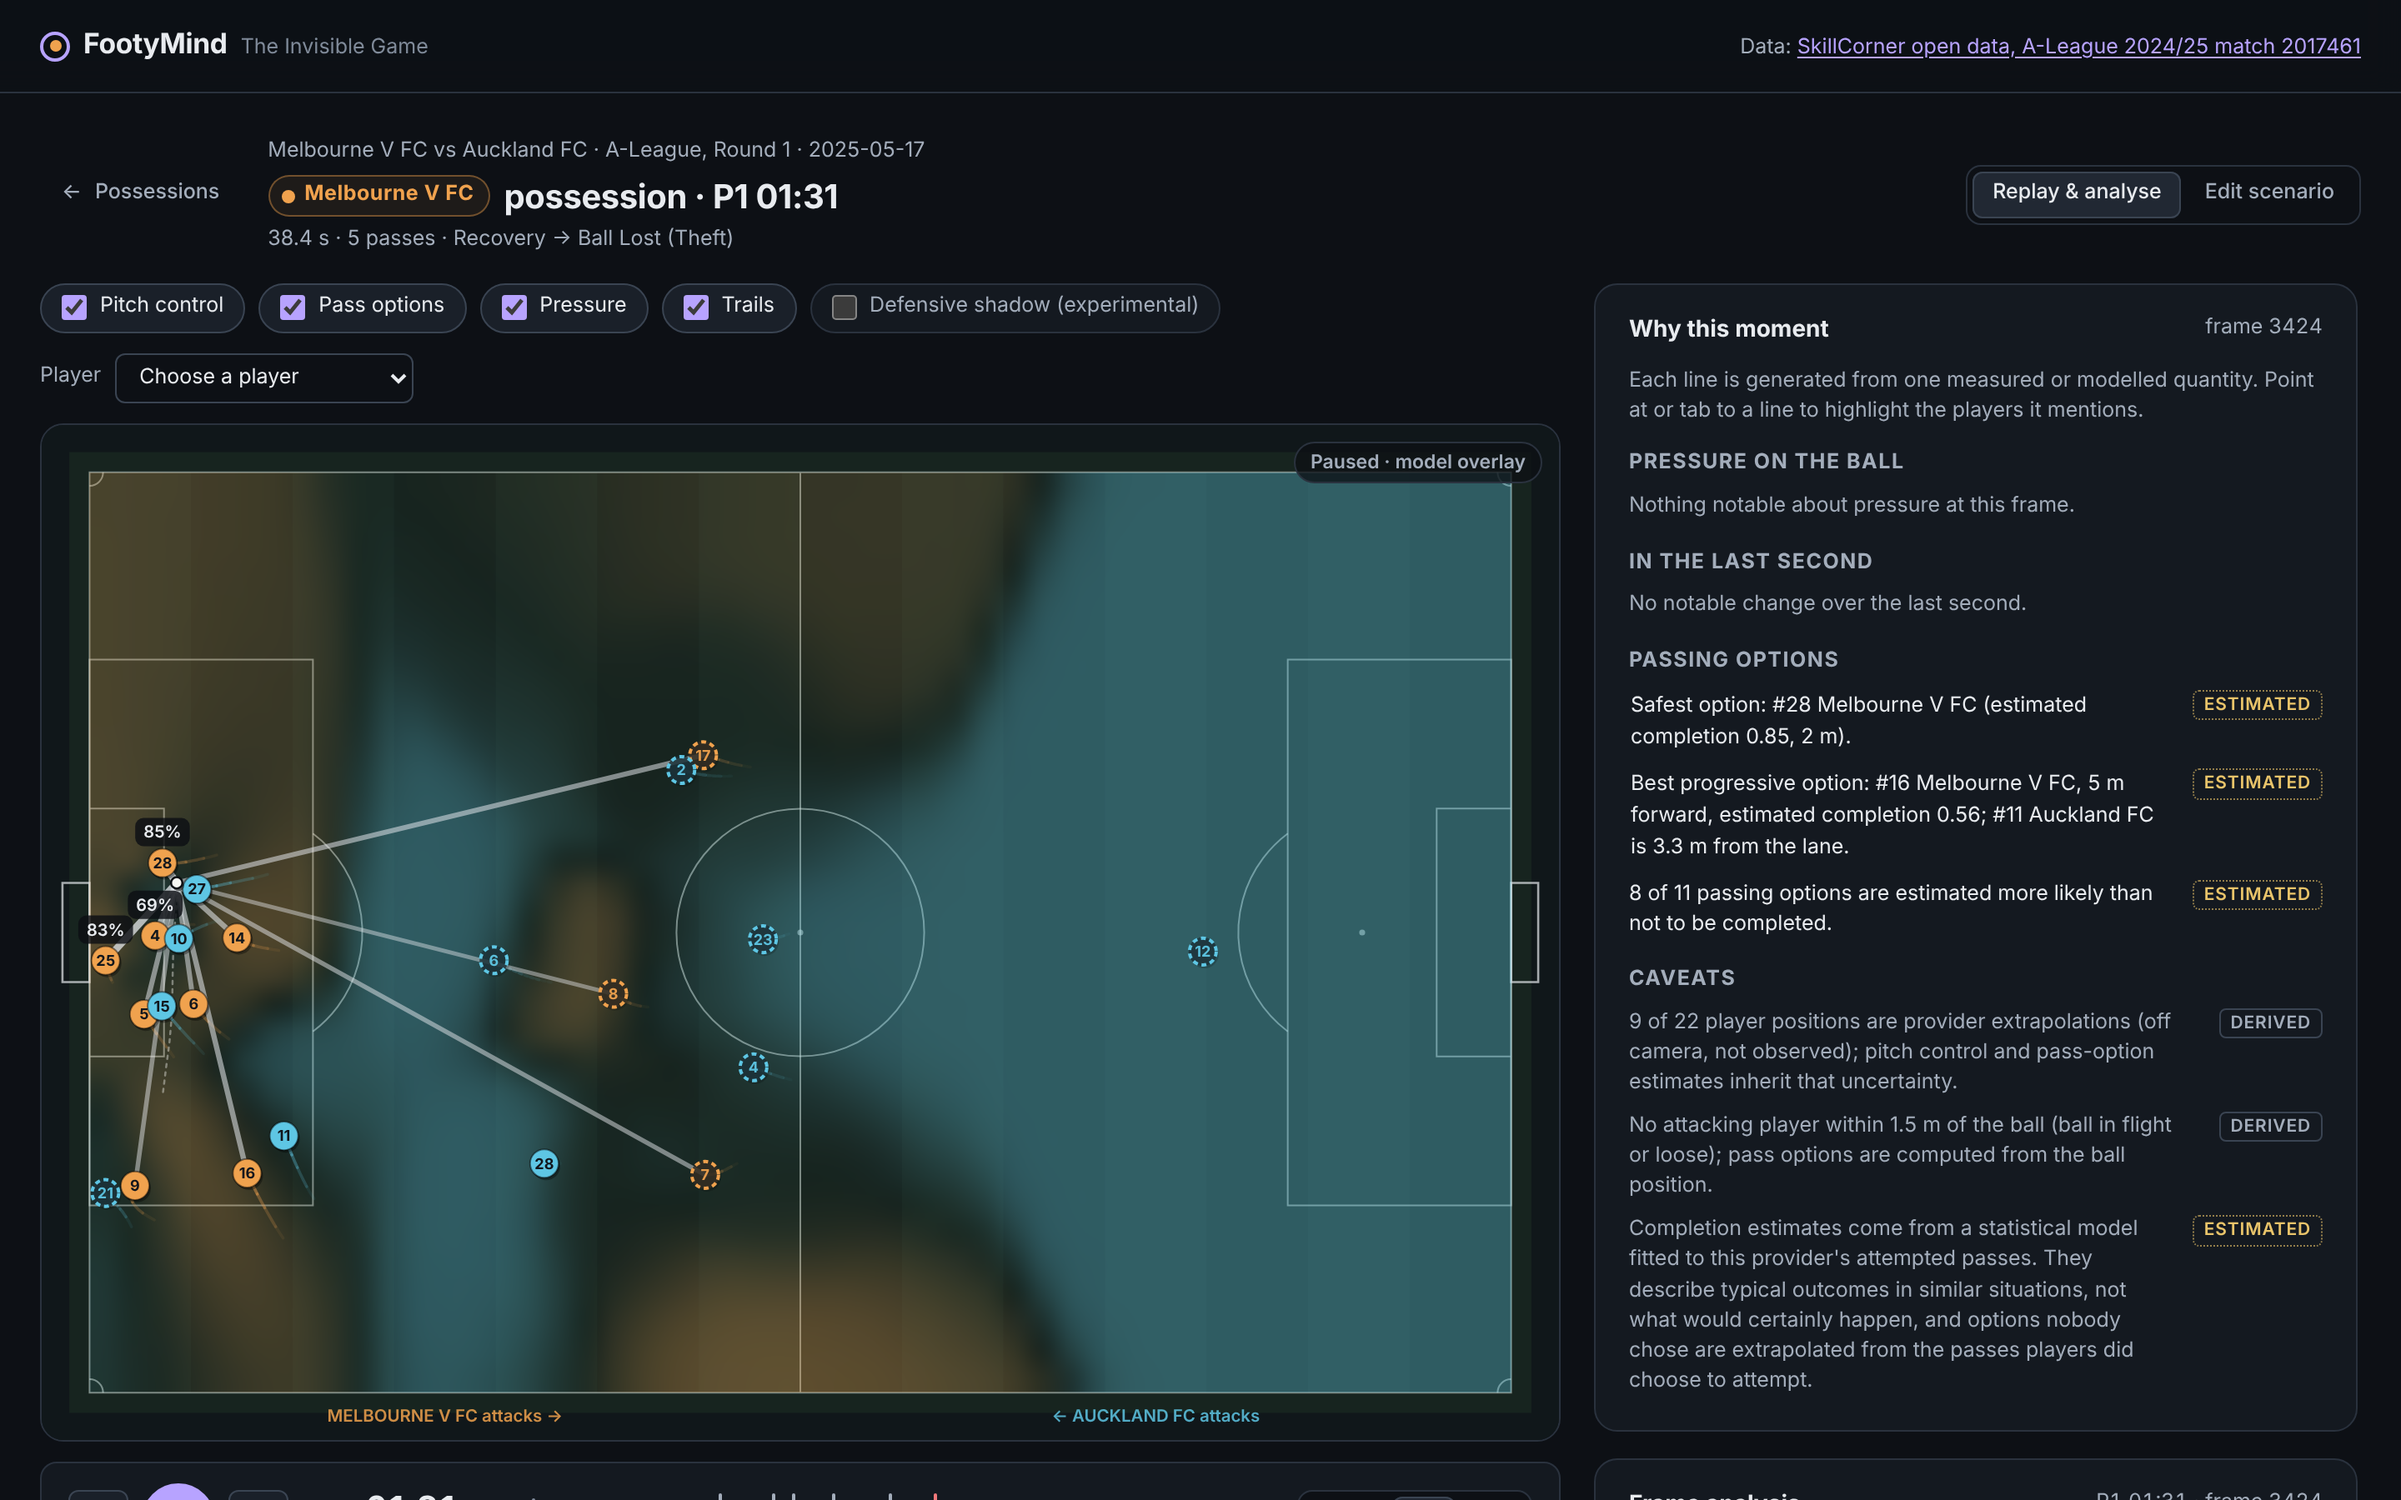
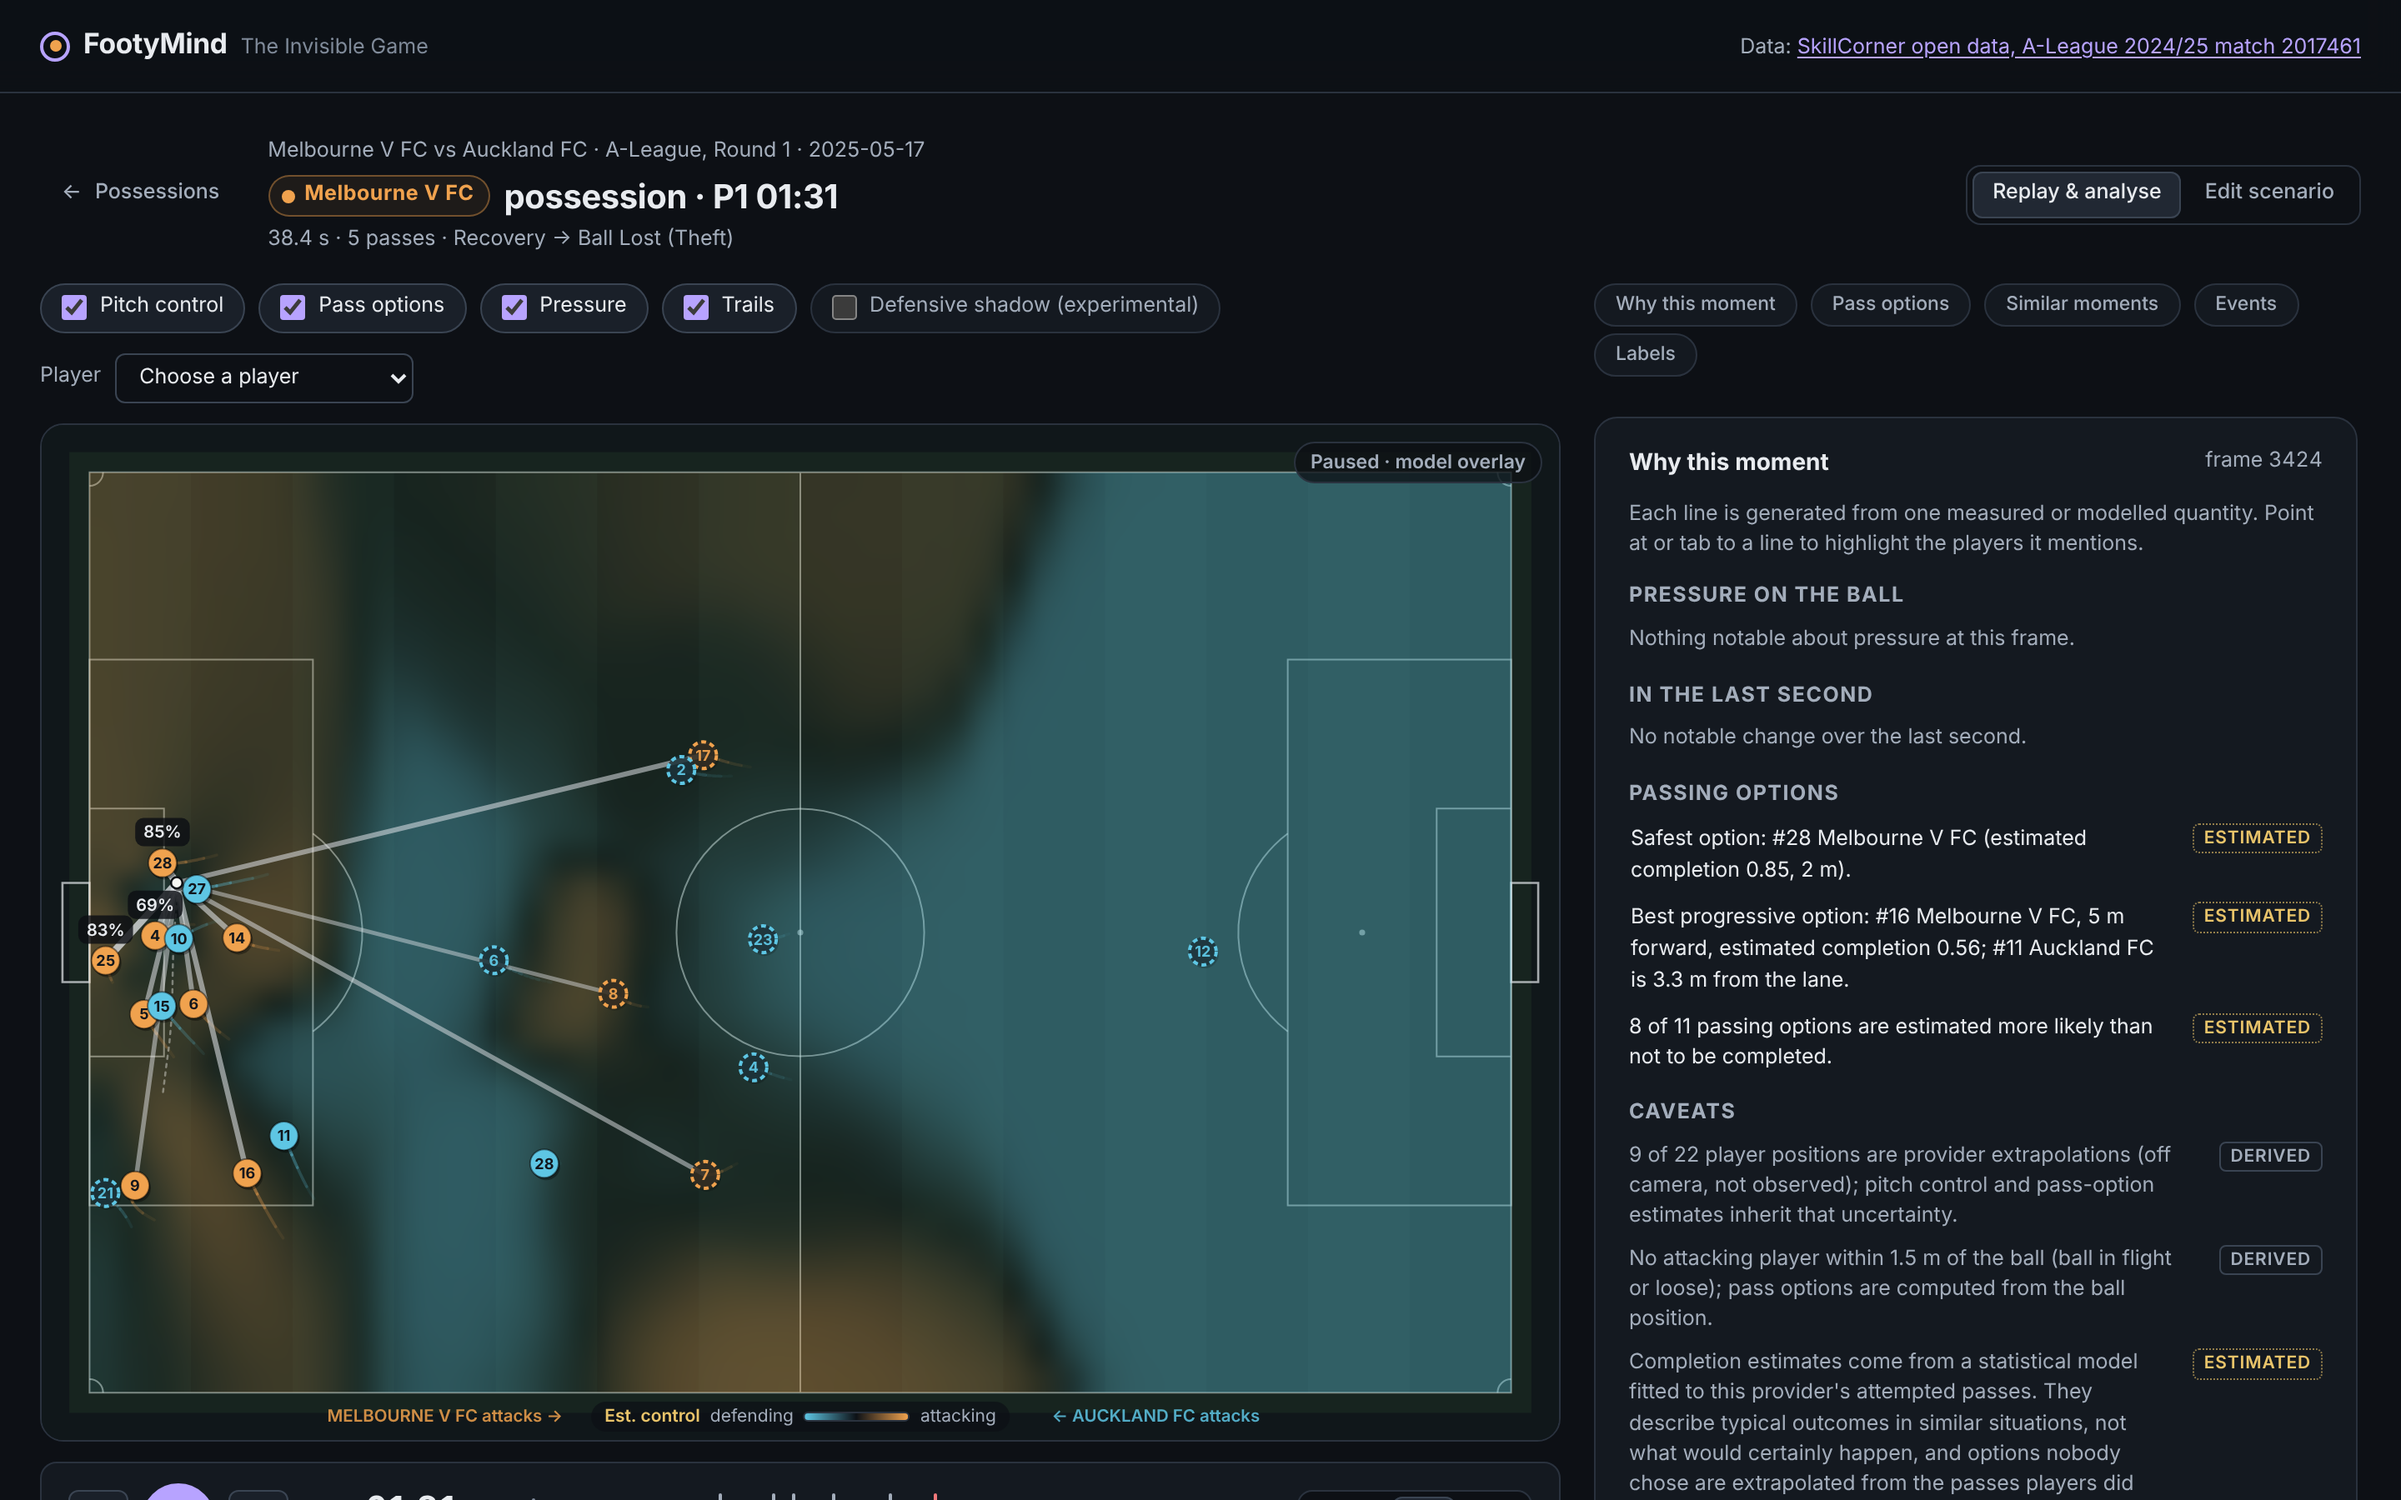
Web: refresh README screenshots and usage for the guided tour
Regenerated at 2x from the real app on real data; adds guided-tour-desktop.png.

diff --git a/web/README.md b/web/README.md
@@ -10,7 +10,9 @@ you edit a frame to compare observed and hypothetical model outputs.
 | --- | --- |
 | ![Edited scenario: moved player, simulated marker response and control delta](screenshots/scenario-difference-desktop.png) | ![Lab stacked at 390 px](screenshots/lab-narrow.png) |
 
-![Landing page with match selector and possession list](screenshots/landing-desktop.png)
+![Landing page: what the invisible game is, the guided tour, featured situations with live numbers](screenshots/landing-desktop.png)
+
+![Guided tour, step 3: the curated move applied and compared with the observed frame](screenshots/guided-tour-desktop.png)
 
 Data: Metrica Sports sample games (real, anonymised tracking at 25 Hz with
 synchronised events), https://github.com/metrica-sports/sample-data. The app
@@ -53,34 +55,48 @@ config falls back to `/opt/pw-browsers/chromium`, or you can set `PW_CHROMIUM`.
 
 ## Using the lab
 
-1. Pick a match and open a possession (team, period, match clock, duration,
-   passes, and shot or goal badges).
+0. **New here?** Start the guided tour from the landing page. It opens a featured
+   situation and walks through three steps: *Watch* the observed possession,
+   *Understand* the paused decision (pitch control, pressure, pass options, "Why
+   this moment", similar moments), and *What if?* (the curated move applied, with
+   the observed, hypothetical and difference views and the defender-response
+   selector). The featured cards compute their numbers live from the API.
+1. Or pick any match and open a possession (team, period, match clock, duration,
+   passes, and shot or goal badges). The list shows 20 rows; "Show all" expands it.
 2. Replay it: <kbd>Space</kbd> plays or pauses, <kbd>←</kbd>/<kbd>→</kbd> step a frame
    (<kbd>Shift</kbd> steps 1 s), 0.5×/1×/2× speed, and the timeline has event
    markers. Trails show the last 1.5 s.
-3. Pause on any frame to see estimated pitch control, pass options (line width and
-   opacity encode the option-model probability) and pressure on the carrier. The
-   side table ranks the options and also serves as the text alternative.
+3. Pause on any frame to see estimated pitch control (a compact colour key sits in
+   the pitch margin), pass options (line width and opacity encode the option-model
+   probability) and pressure on the carrier. The side table ranks the options and
+   also serves as the text alternative; "How to read this table" explains each
+   column. Jump links at the top of the analysis column reach "Why this moment",
+   pass options, similar moments, events and the labels key.
 4. **Edit scenario**: drag up to four players. While you drag, the dashed circle
    shows where the player could have reached (7 m/s from the observed position
    1.5 s earlier). On drop, the backend re-runs the model. You can choose the
-   opponent response (none or marker follows), compare by the option model or the
-   physics heuristic, switch between observed, hypothetical and difference views,
-   and read the deltas with their 10–90% ensemble ranges, sign agreement and the
-   evidence and assumptions. **Reset to observed** returns to the data.
-5. Click a player to inspect id, team, position, speed and provenance. In edit
-   mode the player card also offers a keyboard-accessible move form.
+   defender response, compare by the option model or the physics heuristic, switch
+   between observed, hypothetical and difference views, and read the deltas with
+   their 10–90% ensemble ranges, sign agreement and the evidence and assumptions.
+   The response models react to a moved attacker or ball carrier; when only
+   defenders are moved, the panel says so. **Reset to observed** returns to the data.
+5. Click a player (or use the Player menu) to see where they are in football terms
+   (third, channel, distance to goal), their speed and the provenance of each value.
+   Exact pitch coordinates are in a disclosure. In edit mode the player card also
+   offers a keyboard-accessible move form.
 
 ## Provenance on screen
 
 | Label | Pitch | Text |
 | --- | --- | --- |
-| observed | solid disc | solid grey badge |
+| observed | solid disc and ball | solid grey badge |
 | derived | n/a | outlined badge |
-| estimated | translucent heatmap and pass lines, "model" labels | dotted amber badge |
+| estimated | translucent heatmap and pass lines, "model" labels; hollow dashed players and ball off camera (broadcast), the ball tagged "est." | dotted amber badge |
 | hypothetical (you moved) | translucent disc, dashed violet ring, ghost and dashed arrow | dashed violet badge |
 | simulated (rule response) | translucent disc, dotted white ring, dotted arrow | dotted white badge |
 
+The legend's "What do observed, derived, estimated, hypothetical and simulated
+mean?" disclosure and the landing page's key explain all five labels.
 Pitch control is always labelled "Estimated pitch control (model, uncalibrated)".
 Pass probabilities name their model: the calibrated option model is primary, and
 the physics heuristic is shown as uncalibrated. API warnings appear verbatim.
